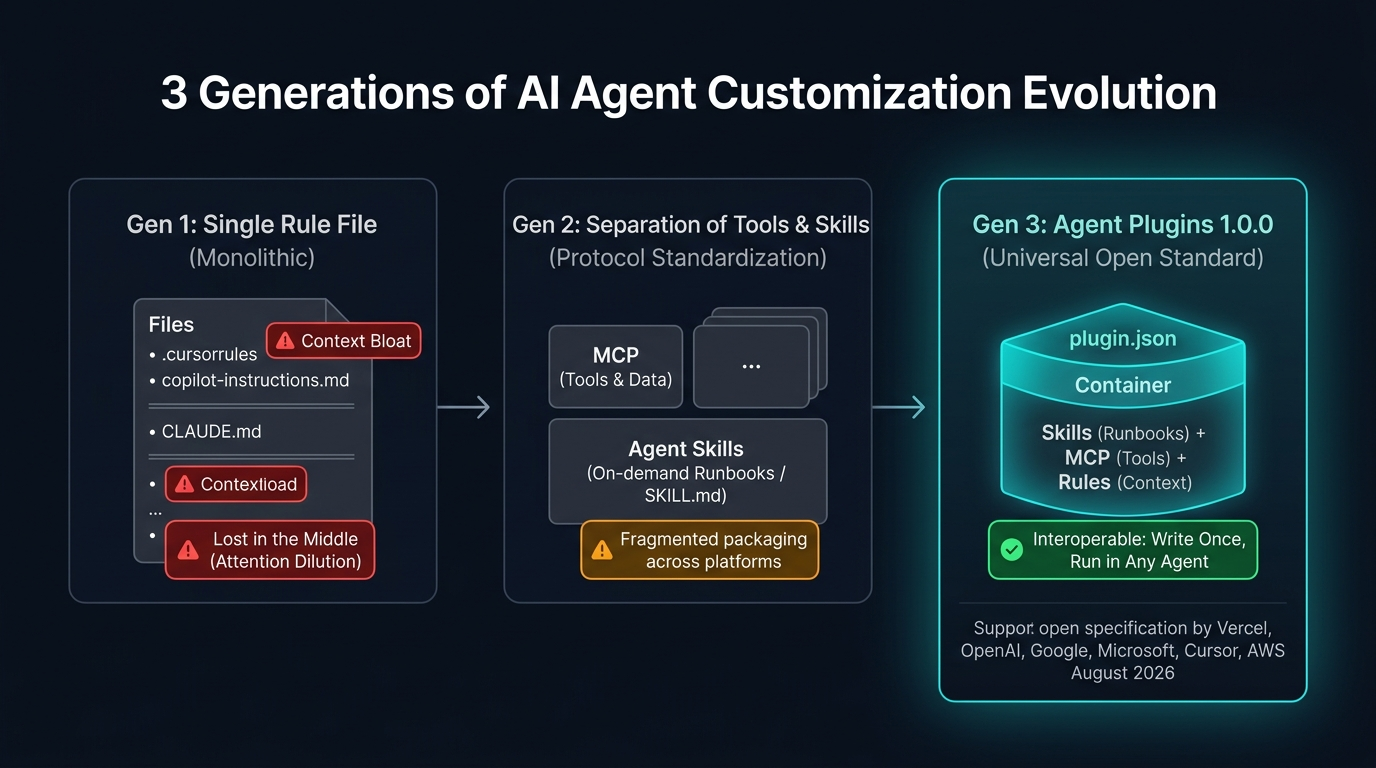
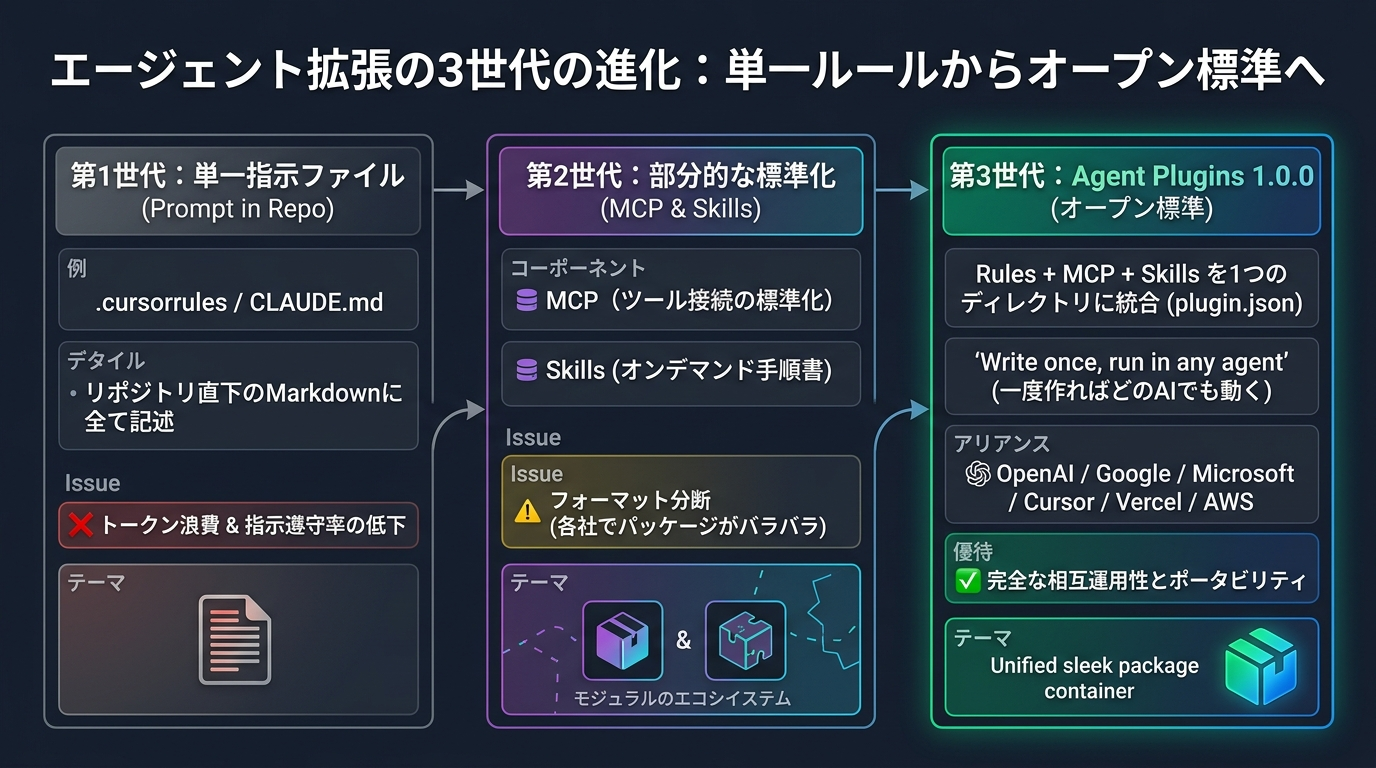
feat: AGENTS.mdオープン標準化とRules/Skills/MCP/Hooks進化史の記事を更新・公開

diff --git a/assets/scss/custom.scss b/assets/scss/custom.scss
@@ -1,0 +1,10 @@
+/* ==============================================================================
+   FixIt Theme Custom Enhancements
+   ============================================================================== */
+
+/* Japanese Typography & Base Settings */
+body {
+  font-family: "Noto Sans JP", -apple-system, BlinkMacSystemFont, "Segoe UI", Roboto, "Helvetica Neue", Arial, sans-serif;
+  -webkit-font-smoothing: antialiased;
+  -moz-osx-font-smoothing: grayscale;
+}

diff --git a/content/posts/2026/08/ai-coding-rules-comparison/index.md b/content/posts/2026/08/ai-coding-rules-comparison/index.md
@@ -1,50 +1,116 @@
 ---
-date: '2026-08-16T11:35:00Z'
-draft: true
-title: 'Copilot・Cursor・Antigravity のカスタム指示ファイル設定まとめ'
-description: 'GitHub Copilot（copilot-instructions.md）、Cursor（.cursorrules / .mdc）、Antigravity（AGENTS.md）のルール設定仕様の違いと、実用的な書き方の整理。'
-tags: ["copilot", "github", "cursor", "antigravity", "ai", "rules"]
+date: '2026-08-19T23:00:00Z'
+draft: false
+title: 'AI指示ファイルの標準化と書き方：AGENTS.md の誕生・Linux Foundation 移管から各ツール比較まで'
+description: 'AI コーディングエージェント向け指示ファイル「AGENTS.md」の誕生背景、OpenAI から Linux Foundation（AAIF）への移管・オープン標準化の経緯と、GitHub Copilot・Cursor・Claude Code 等との仕様比較、実践的な記述設計まとめ。'
+tags: ["agents-md", "copilot", "cursor", "antigravity", "ai", "standards", "rules"]
 categories: ["Tech", "AI Development"]
 ---
 
-AIコーディングツールにチームのコーディング規約や設計方針を伝えるための設定ファイル（Instructions / Rules）について、Copilot、Cursor、Antigravity の3ツールの仕様を比較・整理しました。
+## はじめに
+
+AI コーディングエージェント（Google Antigravity、Cursor、GitHub Copilot、Claude Code 等）を実務で活用する際、プロジェクト固有のアーキテクチャ、ビルド・テスト手順、コーディング規約をいかに正確にエージェントへ伝えるかが重要になります。
+
+当初はツールごとに独自の設定ファイルが乱立していましたが、現在はオープン標準仕様としての **`AGENTS.md`** を中心に共通化が進んでいます。
+
+本記事では、`AGENTS.md` が生まれた背景と Linux Foundation 傘下の標準化団体への移管の経緯、各ツール固有の指示ファイルとの仕様比較、そして実用的な書き方の設計原則を整理します。
 
 ---
 
-## 3ツールの設定ファイル比較
+## AGENTS.md の誕生とオープン標準化の経緯
 
-| ツール | 設定ファイル | 配置場所 | 適用範囲と特徴 |
+`AGENTS.md` は、AI エージェントがリポジトリを自律的に理解して作業するための **「エージェントのための README（README for AI agents）」** として策定されたオープンな仕様です。
+
+```
+プロジェクトのルート / サブディレクトリ
+├── README.md   # 人間（開発者）向けのオンボーディング・概要説明
+└── AGENTS.md   # AI エージェント向けの機械可読な制約・実行コマンド・規約
+```
+
+### 1. 発祥：OpenAI による提唱（2025年8月）
+
+2025 年 8 月、OpenAI が自社の Codex CLI 等に向けて提唱・導入したのが始まりです。
+
+当時、AI ツールごとに設定ファイルが断片化しており、同じリポジトリであってもエディタやツールを切り替えるたびに別々の設定ファイルを保守する必要がありました。
+
+- **Cursor**: `.cursorrules`
+- **GitHub Copilot**: `.github/copilot-instructions.md`
+- **Claude Code**: `CLAUDE.md`
+
+この乱立を解消し、「ベンダーニュートラルで、どの AI ツールでも共通して読める単一の指示フォーマット」として考案されたのが `AGENTS.md` です。
+
+### 2. Linux Foundation（AAIF）への移管（2025年12月）
+
+2025 年 12 月 9 日、中立なオープンスタンダードとして普及させるため、OpenAI、Anthropic、Block、Google、Microsoft、AWS、Cloudflare 等が参画して **Linux Foundation** 傘下に **Agentic AI Foundation (AAIF)** が設立されました。
+
+この設立に伴い、主要各社から中核プロジェクトが寄贈されました。
+
+- **`AGENTS.md`（OpenAI より寄贈）**: エージェント向け共通指示フォーマット
+- **`Model Context Protocol (MCP)`（Anthropic より寄贈）**: ツール・外部データ連携プロトコル
+- **`goose`（Block より寄贈）**: ローカルファーストなオープンソース自律エージェント基盤
+
+現在、`AGENTS.md` の仕様策定とガバナンスは特定の一企業ではなく、AAIF のコミュニティ主導で維持・管理されています（公式サイト：[agents.md](https://agents.md)）。
+
+---
+
+## 指示ファイル仕様の比較
+
+主要な AI コーディングツールにおける指示ファイルの配置と読み込み仕様の比較です。
+
+| ツール / 規格 | 設定ファイル | 配置場所 | 主な特徴とスコープ |
 | :--- | :--- | :--- | :--- |
-| **GitHub Copilot** | `copilot-instructions.md` | `.github/` | リポジトリ全体。ChatやPR要約で参照される |
-| **Cursor** | `.cursorrules` / `*.mdc` | ルート / `.cursor/rules/` | glob指定で拡張子・パス別のルール分割が可能 |
-| **Antigravity** | `AGENTS.md` / `GEMINI.md` | 任意ディレクトリ / `.agents/rules/` | 階層遡り（Walk-up）走査。Skillsと分離して管理 |
+| **AGENTS.md**<br>*(オープン標準)* | `AGENTS.md` | ルート / 任意ディレクトリ | 階層遡り（Walk-up）走査に対応。プレーン GFM で記述し、複数ツールで共通利用可能 |
+| **GitHub Copilot** | `copilot-instructions.md` | `.github/` | リポジトリ全体に適用。Chat、インライン提案、PR 要約等で参照 |
+| **Cursor** | `.cursorrules`<br>`*.mdc` | ルート<br>`.cursor/rules/` | フロントマターで `globs` を指定し、対象ファイル拡張子やパスごとにルールを動的適用可能 |
+| **Claude Code** | `CLAUDE.md` | ルート / サブディレクトリ | プロジェクトのビルド・テストコマンドやコード規約を自然言語で指定 |
+| **Google Antigravity** | `AGENTS.md`<br>`GEMINI.md` | ルート / サブディレクトリ / `.agents/rules/` | `AGENTS.md` を標準サポート。Skills（手順書）や MCP（ツール接続）と分離して階層ロード |
+
+> [!NOTE]
+> 現在の多くのツール（Antigravity、Cursor、Codex 等）は `AGENTS.md` をネイティブに解釈します。一部ツール（Claude Code 等）で専用ファイルを要求される環境では、`AGENTS.md` へのシンボリックリンクを作成して二重管理を防ぐ運用も一般的です。
 
 ---
 
-## 1. GitHub Copilot (`.github/copilot-instructions.md`)
+## 各ツールの設定フォーマット
 
-`.github/copilot-instructions.md` にMarkdownで規約を記述します。
+### 1. AGENTS.md（オープン標準）
+
+GitHub Flavored Markdown (GFM) を用いたシンプルなテキストファイルです。複雑な YAML スキーマなどを強制せず、見出しやリスト構造で指示を記述します。
+
+```markdown
+# Agent Guidelines
+
+## プロジェクト構成
+- フロントエンド: Next.js (App Router), Tailwind CSS
+- バックエンド: Go (Echo), PostgreSQL
+
+## コマンド
+- ビルド: `npm run build`
+- テスト: `npm test`
+- リント: `npm run lint`
+
+## コーディング規約
+- コンポーネントは named export で定義する。
+- 破壊的変更を伴うマイグレーション時は事前に確認を求める。
+```
+
+### 2. GitHub Copilot (`.github/copilot-instructions.md`)
+
+リポジトリ全体に 1 枚で効かせる構成です。`.github/` ディレクトリ配下に配置します。
 
 ```markdown
 # GitHub Copilot Instructions
 
 ## 技術スタック
-- Node.js (v20+), TypeScript (v5+), React (Next.js App Router)
-- スタイリング: Tailwind CSS (v3)
+- Node.js (v20+), TypeScript (v5+)
 
 ## コーディング規約
-- コンポーネントは関数コンポーネントで定義する（`React.FC` は非推奨）。
-- 非同期処理は `try-catch` でエラーハンドリングする。
 - `any` 型は使わず、型ガードと `unknown` を使う。
+- 非同期処理は `try-catch` でエラーハンドリングする。
 ```
 
-リポジトリ全体に1枚で効くシンプルな構成です。
+### 3. Cursor (`.cursorrules` / `.cursor/rules/*.mdc`)
 
----
-
-## 2. Cursor (`.cursorrules` / `.cursor/rules/*.mdc`)
-
-単一ファイルの `.cursorrules` のほか、`.cursor/rules/` 配下にフロントマター付きの `.mdc` ファイルを複数配置できます。
+`.cursorrules` はプロジェクト全体に適用されます。より細かい制御を行う場合、`.cursor/rules/` 配下にフロントマター付きの `.mdc` ファイルを配置し、`globs` で対象ファイルを絞り込みます。
 
 ```markdown
 ---
@@ -57,30 +123,110 @@ globs: src/components/**/*.{ts,tsx}, src/app/**/*.{ts,tsx}
 - アイコンは `lucide-react` を使う。
 ```
 
-`globs` で対象ファイルを絞り込めるため、フロントエンドとバックエンドでルールを分けたい場合に便利です。
-
 ---
 
-## 3. Google Antigravity (`AGENTS.md` / `GEMINI.md`)
+## AGENTS.md を設計するときの原則
 
-プロジェクトルートや各ディレクトリに `AGENTS.md` を配置します。
+`AGENTS.md` は毎回のプロンプト（システムコンテキスト）に読み込まれるため、肥大化させると **Context Bloat（トークン消費の増大）** や **Attention Dilution（指示の見落とし）** の原因になります。
+
+> [!TIP]
+> **常時ロード（AGENTS.md）とオンデマンド（Skills / ドキュメント）の分離**
+> - **`AGENTS.md` に書くもの**: 常時守るべきコーディング規約、必須ビルドコマンド、禁止事項（Guardrails）。
+> - **`AGENTS.md` に書かないもの**: 長大なデプロイ手順、特定のライブラリの詳細 API 仕様、一時的なトラブルシューティング手順（これらは `SKILL.md` や個別ドキュメントに逃がし、必要な時だけ呼び出す）。
+
+### 1. 「禁止」だけでなく「代替案」を明記する
+AI は「〜〜するな」という否定形のみの指示だと、意図しない別の不適切なコードを生成することがあります。
+- ❌ **悪い例**: 「`any` 型を使うな」
+- ⭕ **良い例**: 「`any` 型は使わず、`unknown` 型と型ガード関数（Type Predicate）を使う」
+
+### 2. モデルが既知の一般論は書かない
+「読みやすいコードを書く」「保守性の高い設計にする」といった一般的な常識は LLM に元から備わっているため不要です。プロジェクト固有の命名規則やアーキテクチャの境界定義に絞り込みます。
+
+### 3. 実行コマンドを正確に記載する
+エージェントが自律的にテストやリントを実行できるよう、プロジェクトで実際に使用しているコマンド（引数や環境変数を含む）を明記します。
 
 ```markdown
-# Project Standards
-- コミットメッセージは Conventional Commits 形式にする。
-- 外部API呼び出しにはリトライ処理とタイムアウト（最大5000ms）を設定する。
+## コマンド
+- 単体テスト: `npm run test:unit`
+- E2Eテスト: `npx playwright test`
+- 静的検証: `npm run type-check`
 ```
-
-- **階層走査（Walk-up）**: サブディレクトリのファイルを編集する際、親ディレクトリを自動で遡ってルールをマージします。
-- **Skills との役割分担**: 規約は `AGENTS.md`、手順書は `.agents/skills/` に切り分けて管理します。
 
 ---
 
-## ルールを書くときの注意点
+## 階層スコープ設計（Walk-up 継承とサブプロジェクトへの分散配置）
 
-1. **「禁止」だけでなく代替案を書く**
-   - 「`any` 禁止」だけでなく「`any` は使わず `unknown` と型ガードを使う」と書く。
-2. **一般論は省く**
-   - 「読みやすいコードを書く」などLLMが元から知っている常識は不要。プロジェクト固有のライブラリやディレクトリ構造に集中させる。
-3. **長大な手順はルールに書かない**
-   - デプロイ手順等の長文は常時読み込みのルールファイルには書かず、Skills 等のオンデマンド機構に分離する。
+モノレポ構成や複数のパッケージ・マイクロサービスが同居するプロジェクトでは、各パッケージやディレクトリ内に個別の `AGENTS.md` ファイルを配置します。
+
+エージェントはディレクトリツリー内で **最も近いファイルを自動的に読み込む** ため、最も近いファイルが優先（オーバーライド・マージ）され、各サブプロジェクトはそれぞれに最適化された指示やビルドコマンドを配布できます。
+
+```
+my-project/
+├── AGENTS.md              # リポジトリ全体の共通規約（コミット規約、PR 作成ルール等）
+├── packages/
+│   ├── frontend/
+│   │   └── AGENTS.md      # React / Next.js 固有の規約とビルド・テストコマンド
+│   └── backend/
+│       └── AGENTS.md      # Go / DB 固有の規約とマイグレーション手順
+```
+
+エージェントが `packages/frontend/src/` 配下のファイルを編集する際、自身の階層から親階層へ向かって（Walk-up）順に探索し、直近の指示を優先しながらルートの共通ルールとマージして適用します。
+
+> [!NOTE]
+> **大規模リポジトリでの実例**
+> ディレクトリごとに指示を分割するアプローチは、大規模なコードベースで標準的に実践されています。例えば、OpenAI のメインリポジトリには執筆時点で **88 個の `AGENTS.md` ファイル** が配置されており、各モジュールやパッケージ単位でエージェントへの指示が細かく最適化されています。
+
+---
+
+## Rules・Skills・MCP・Hooks の進化と標準化状況の違い
+
+AI エージェントのカスタマイズ手法は、自然言語による指示（Rules）から、ツール連携（MCP）、手順書の段階的開示（Skills）、そしてプログラムによる強制介入（Hooks）へと段階的に進化してきました。
+
+```mermaid
+flowchart TD
+    G0["【前史】チャット手動コピペ<br>（会話要約で指示が消える）"]
+    -->|"リポジトリ内に常時配置"| G1["【第1世代】Rules / AGENTS.md<br>（全部盛りによるプロンプト肥大化）"]
+    -->|"手足と手順の分離・標準化"| G2["【第2世代】MCP & Skills<br>・MCP：ツール接続のAPI標準<br>・Skills：手順書のオンデマンド開示"]
+    -->|"自然言語の確率的ブレを突破"| G3["【第3世代】Hooks（ライフサイクル介入）<br>プログラムで物理的に強制ブロック・後処理"]
+```
+
+### 1. 進化の歴史と「Hooks」が必要とされた理由
+
+- **Rules（`AGENTS.md`）と Skills の限界**:
+  Rules や Skills はあくまで **「自然言語（お願い）」** です。「危険なコマンドを実行するな」「直接 push するな」とどれだけ指示しても、LLM の確率的な挙動により 100% 確実に防ぐことは困難でした。
+- **Hooks のアプローチ（決定論的制御）**:
+  LLM の自制心に頼るのをやめ、エージェントの動作ループに **シェルスクリプトを強制的に割り込ませる仕組み（Git hooks と同じ発想）** です。
+  - **実行前ゲート（`PreToolUse`）**: コマンド実行直前にスクリプトが引数を検査し、危険な操作を物理的に遮断（`deny`）または強制確認（`force_ask`）。
+  - **実行後自動化（`PostToolUse`）**: ファイル変更後に自動で `prettier` や `eslint --fix` を実行。
+  - **終了阻止（`Stop`）**: テストが未完了または失敗している場合、エージェントの終了を差し止めてループを継続。
+
+### 2. なぜ Hooks は標準化されていないのか？
+
+`AGENTS.md`、`MCP`、`Agent Skills` が業界横断のオープン標準規格として共通化されているのに対し、**Hooks は各 AI エージェントごとの独自実装（または未対応）** に留まっています。
+
+| 要素 | 標準化の状況 | 管理団体 / 共通仕様 | 役割と特徴 |
+| :--- | :--- | :--- | :--- |
+| **Rules (`AGENTS.md`)** | **標準化済み** | Linux Foundation (AAIF) | どのエージェントでも読める行動規約（自然言語） |
+| **MCP** | **標準化済み** | Linux Foundation (AAIF) | ツール・外部データ連携の標準プロトコル（API） |
+| **Skills (`SKILL.md`)** | **標準化済み** | agentskills.io | 業務マニュアル・手順書のオンデマンド規格 |
+| **Hooks (`hooks.json` 等)** | ⚠ **非標準（各社独自）** | なし（ツール固有機能） | プログラムによる強制実行・ゲート（決定論的制御） |
+
+Hooks の標準化が困難な主な理由は以下の 3 点です：
+
+1. **内部ループ設計の相違**: 各エージェント（Antigravity、Cursor、Claude Code 等）で内部の処理ループ（プロンプト生成 → モデル呼出 → ツール実行 → 終了判定）の構造やイベント発火タイミングが異なる。
+2. **実行環境とセキュリティ境界の格差**: ローカル OS のフルシェル権限で動く CLI と、閉じたクラウド・ブラウザ環境で動くエージェントでは、外部スクリプトを実行できるセキュリティモデルが根本的に異なる。
+3. **Interoperability Floor（相互運用の最低基準）の優先順位**: Agent Plugins 1.0.0 等の統合パッケージ規格でも、まずは環境非依存で安全に共有できる Rules・Skills・MCP が中核となり、ホスト環境依存の強い Hooks はクライアント拡張領域として切り離されている。
+
+> [!TIP]
+> **実践における使い分けの方針**
+> - **ポータブルに共有したい資産**（規約、手順書、ツール連携）: オープン規格である **`AGENTS.md` / Skills / MCP** で記述する。
+> - **物理的な安全ガードや強制自動化**（コマンド実行前の危険性チェック、保存後の自動 Lint 等）: Antigravity の `hooks.json` など、**特定ツールの独自 Hooks 機能** で決定論的に制御する。
+
+---
+
+## まとめ
+
+- **発祥と標準化**: `AGENTS.md` は 2025 年 8 月に OpenAI が提唱し、同年 12 月に Linux Foundation 傘下の **Agentic AI Foundation (AAIF)** へ移管されたオープン標準規格。
+- **目的**: ツール固有設定（`.cursorrules`, `CLAUDE.md` 等）の乱立を防ぎ、マルチエージェント環境で「エージェントのための README」として機能する。
+- **設計の要点**: 常時読み込みファイルであることを意識し、規約・制約・実行コマンドに絞り込んで記述する。詳細手順は Skills 等のオンデマンド機構に分離してコンテキストを軽量に保つ。
+- **Hooks との住み分け**: 自然言語による指示（Rules/Skills）と、プログラムによる決定論的制御（Hooks）の役割を理解し、ポータビリティと安全性を両立させる。
